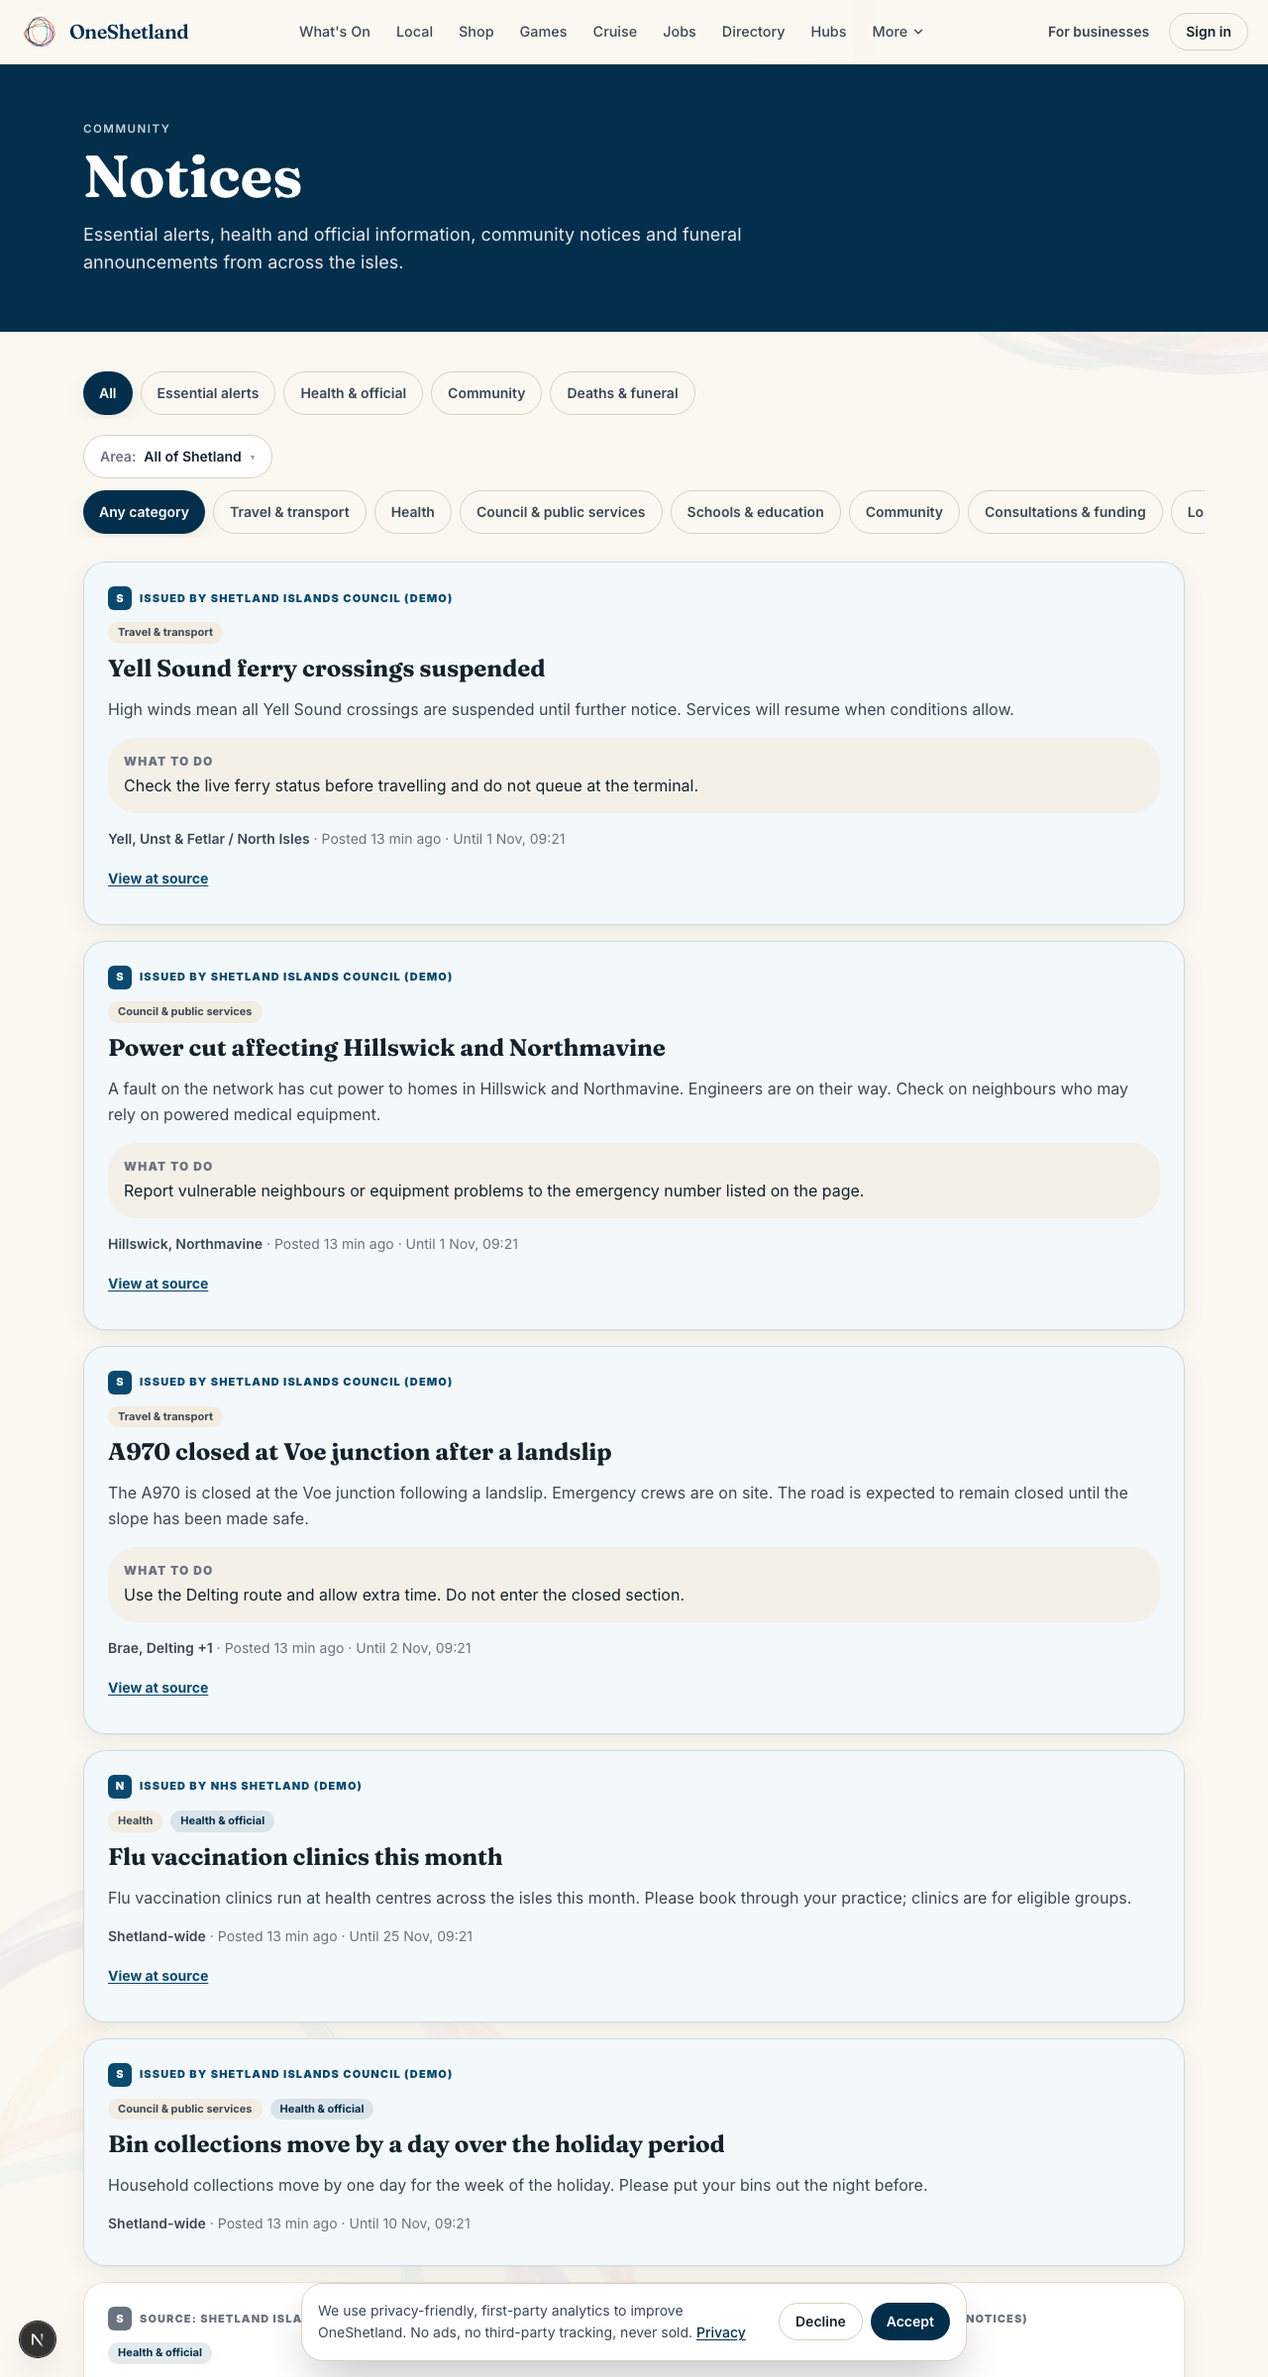
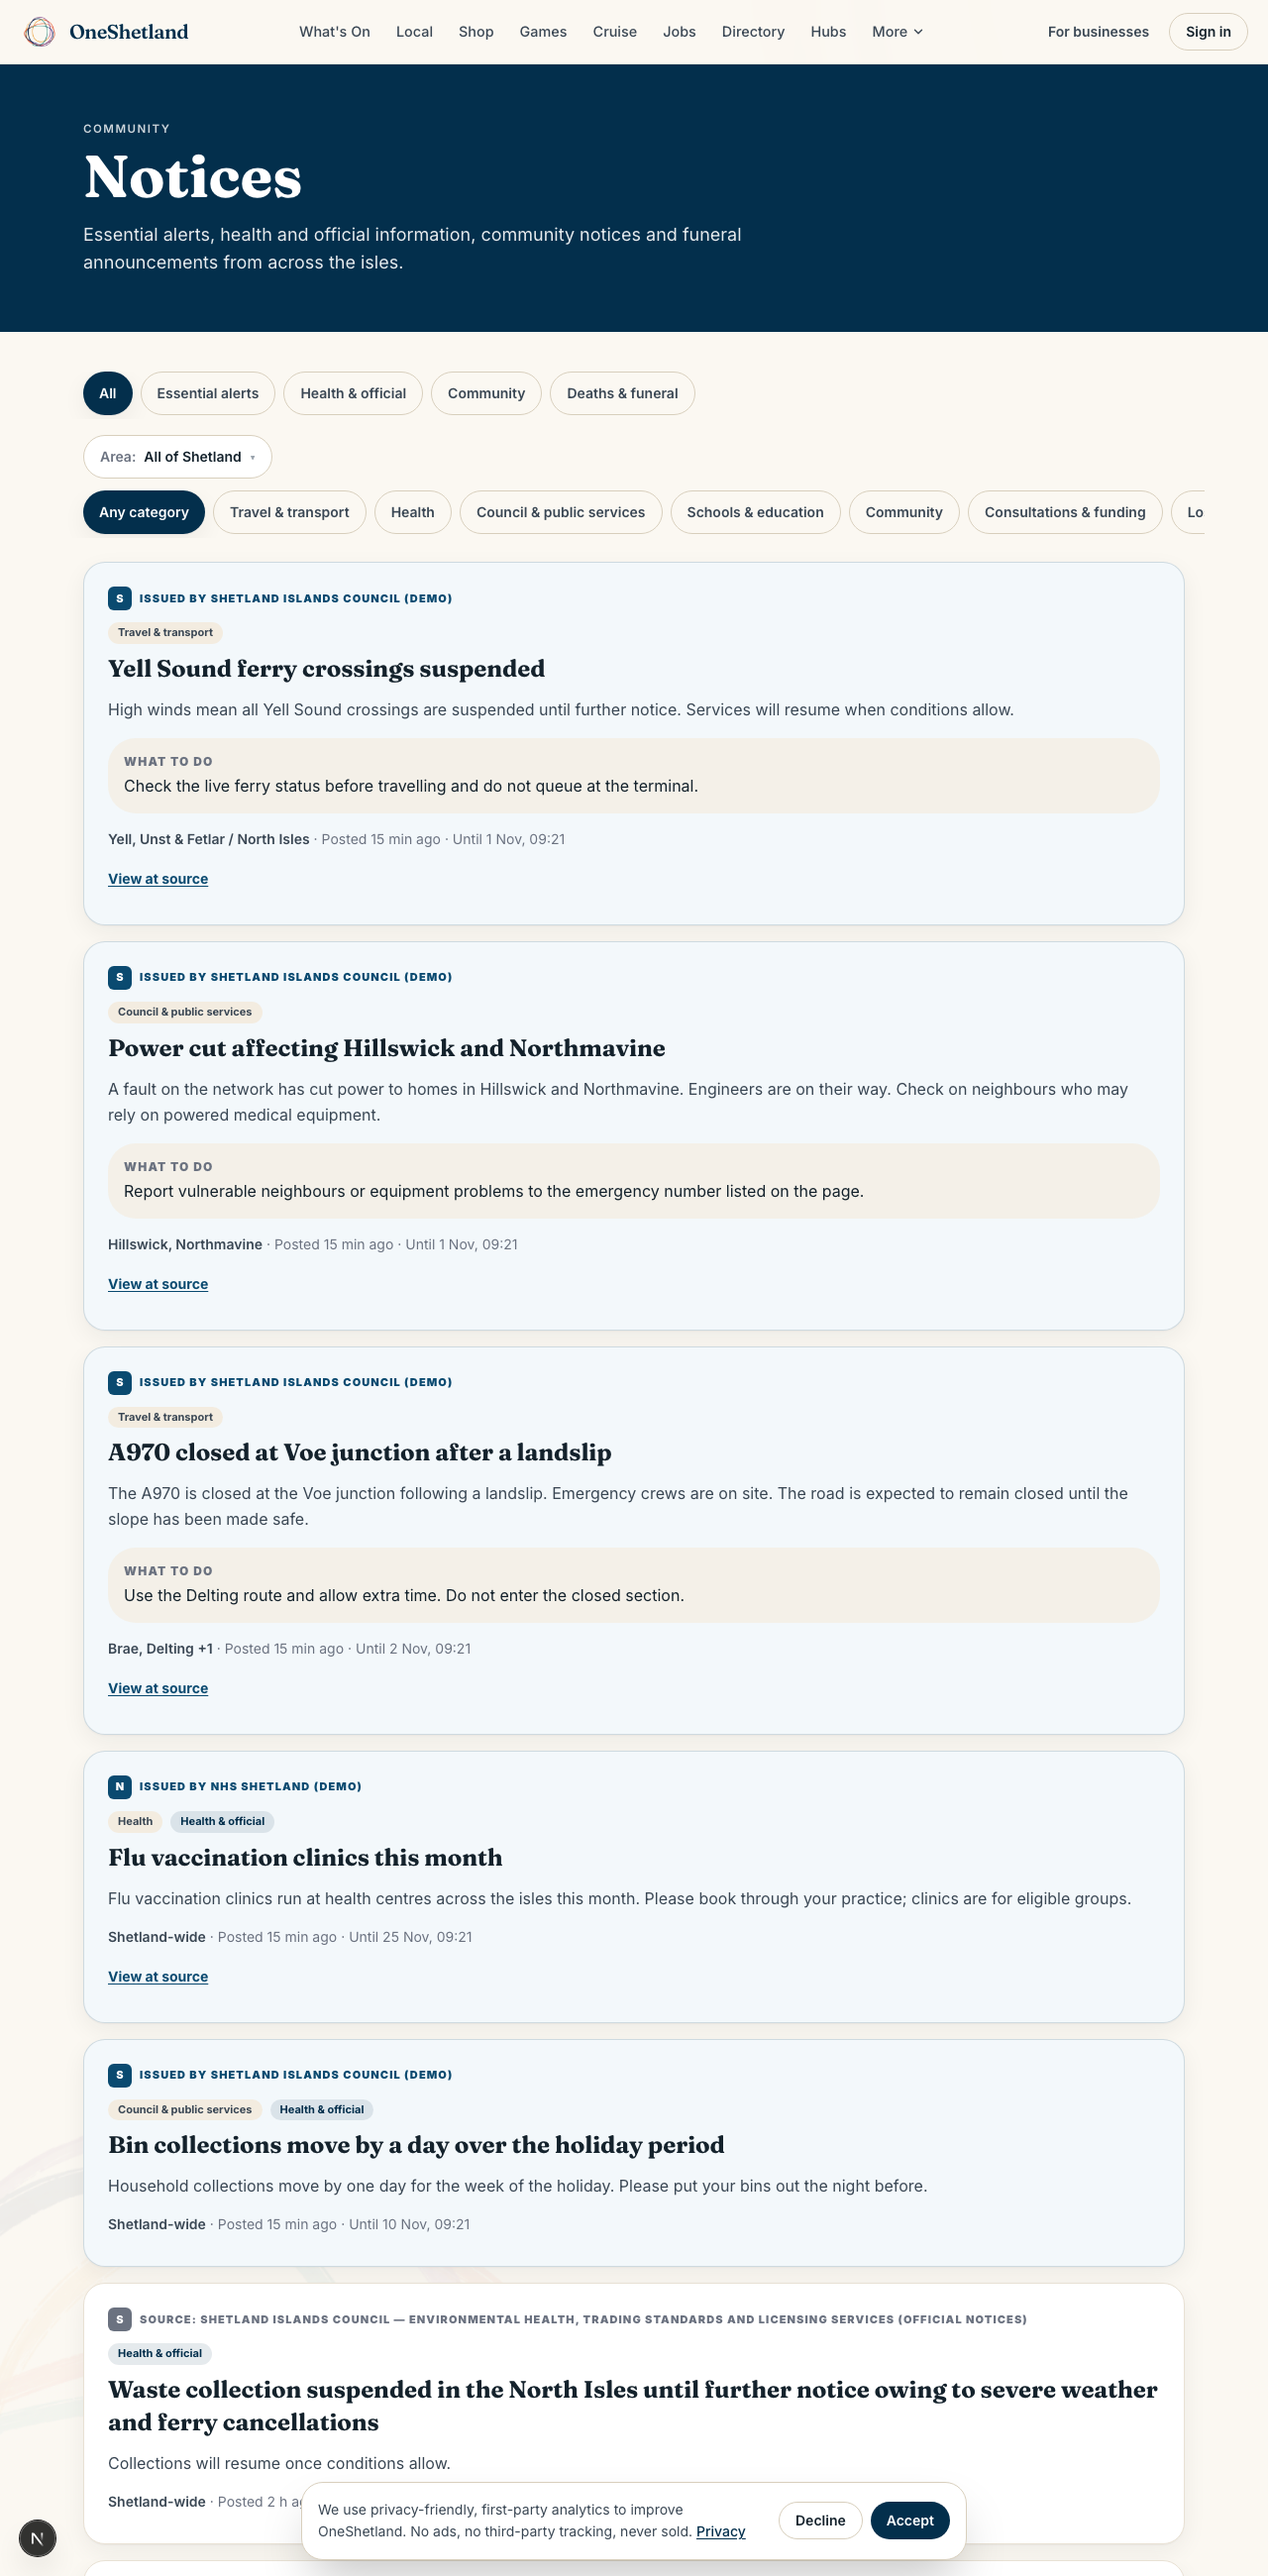
Funeral: get_funeral_notice finds any published notice (not just the 50 newest); a rejected submitter is shown the reason (LOCAL)

diff --git a/supabase/tests/notices-alerts-funeral.node.test.ts b/supabase/tests/notices-alerts-funeral.node.test.ts
@@ -121,6 +121,20 @@ describe('what the public sees (and never sees)', () => {
     assert.ok(!pub().includes(PRIV), 'expired');
     assert.equal(asScalar('anon', `select count(*) from public.get_funeral_notice('${PRIV}')`), '0');
   });
+  test('8b a single notice is found however many newer ones exist (not limited to the 50 newest); an unpublished or expired id is never returned', () => {
+    const old = approve(submit('P', { full_name: 'Oldest Notice' }));
+    raw(`update funeral_notices set published_at = now() - interval '30 days', display_until = now() + interval '10 days' where id='${old}'`);
+    file(`insert into funeral_notices (status, full_name, submitter_role, submitter_name, submitter_phone, family_authorised, verification_method, verified_at, published_at, display_until)
+      select 'approved','Filler ' || g,'family','S','01595 000000',true,'phone_callback',now(), now() - make_interval(mins => g), now() + interval '30 days' from generate_series(1, 80) g`);
+    assert.equal(asScalar('anon', `select count(*) from public.get_funeral_notice('${old}')`), '1', 'found though 80 newer notices exist');
+    const pending = submit('D', { full_name: 'Not Public Yet' });
+    assert.equal(asScalar('anon', `select count(*) from public.get_funeral_notice('${pending}')`), '0');
+    raw(`update funeral_notices set display_until = now() - interval '1 minute' where id='${old}'`);
+    assert.equal(asScalar('anon', `select count(*) from public.get_funeral_notice('${old}')`), '0');
+    const rej = submit('N', { full_name: 'To Reject With Reason' });
+    review('O', rej, 'reject', 'We could not confirm the details; please contact us.');
+    assert.equal(asScalar('N', `select review_message from public.my_funeral_submissions() where id='${rej}'`), 'We could not confirm the details; please contact us.', 'a rejected submitter is told why');
+  });
   test('9 a funeral notice is NEVER a row in `notices`, never essential, no level or feed function returns one, and the nine canonical categories are untouched', () => {
     assert.equal(scalar(`select count(*) from notices where title ilike '%Arrangements%' or body ilike '%Arrangements%'`), '0');
     assert.equal(scalar(`select count(*) from public.get_public_notices('all', null, null, 50) where title ilike '%Arrangements%'`), '0');
